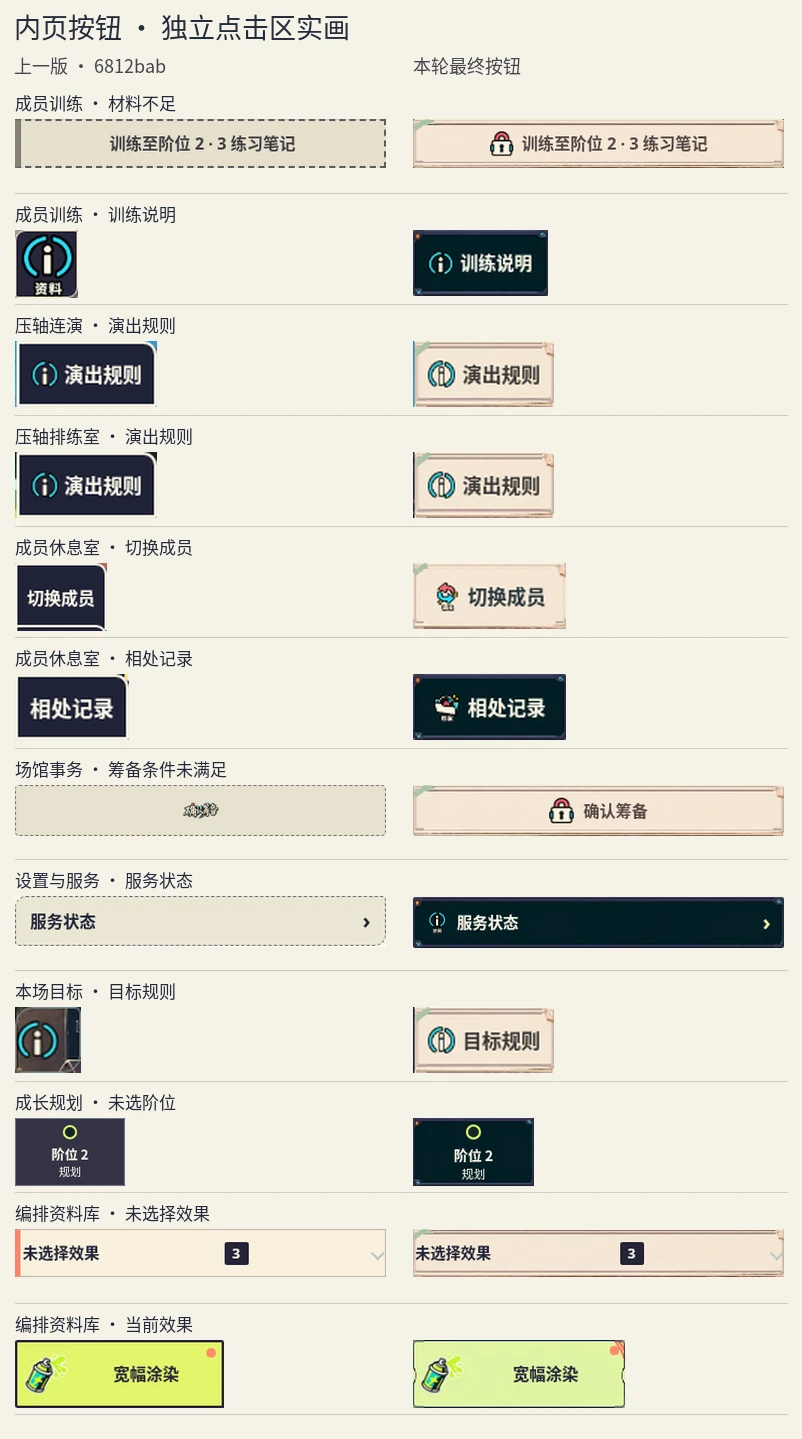
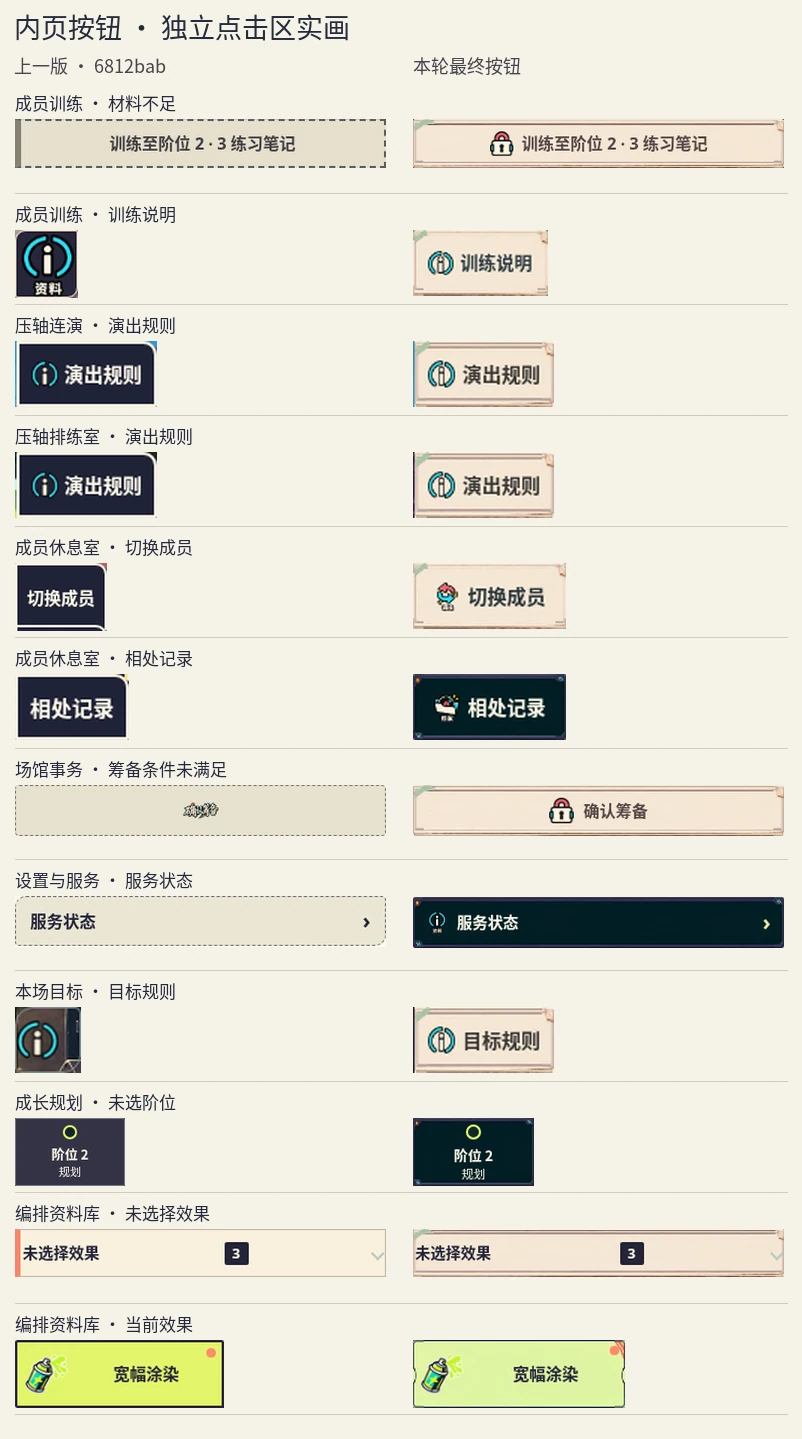
Separate the three training tools into member, equipment and instruction controls

Changed region(s): [[0.4988, 0.1529, 0.6858, 0.214]]

diff --git a/game/src/styles/printroomInnerPages.css b/game/src/styles/printroomInnerPages.css
@@ -802,8 +802,14 @@
     width:90px;min-width:90px;height:44px;min-height:44px;padding:4px 6px;
     border:0;border-radius:2px;background:#27363f;border-image:var(--set-monitor) 42 fill / 7px stretch;
     box-shadow:0 2px 4px #1a29363d;color:#fff9e9;
-    &[data-action=actor-switch] {--tool-icon:url('/art/hierarchy-ui-20261101/icons-switch.webp')}
+    &[data-action=actor-switch] {
+      --tool-icon:url('/art/hierarchy-ui-20261101/icons-switch.webp');
+      background:#353247;border-image-source:var(--set-strip);
+    }
     &[data-action=workshop-sheet-equipment] {--tool-icon:url('/art/hierarchy-ui-20261101/icons-equipment.webp')}
+    &[data-action=workshop-sheet-info] {
+      background:#f8edd4;color:#303c43;border-image-source:var(--set-note);
+    }
     & > .ui-glyph {display:none}
     &::before {content:'';position:static;display:block;flex:0 0 17px;width:17px;height:17px;background:var(--tool-icon) center/contain no-repeat}
     &::after {content:attr(aria-label);position:static;display:block;width:auto;height:auto;background:none;color:inherit;font:750 12px/17px system-ui,sans-serif}

diff --git a/docs/visual-qa/2026-11-25-setdesign/inner/README.md b/docs/visual-qa/2026-11-25-setdesign/inner/README.md
@@ -30,3 +30,5 @@
 从页面背景里把按钮裁出来后，训练、两种演出规则、休息室换人和记录、场馆筹备、服务状态与上一版仍很接近。因此又改了一轮。训练和筹备共用“可执行／锁定”按钮，材料或排班不足时有锁图和文字，操作可用时换成相应的训练或筹备图形。规则页签改成纸面文字，训练说明等三个工具显示各自图形和原生文字。休息室两枚工具都高 44 像素，之间有 8 像素间隔。服务状态用独立的深色查询按钮。[12 个按钮改前改后局部图](../inner-controls.webp)
 
 320×568 和 390×844 逐个复验这 12 项。每项中心都能命中，宽高均达到约 44 像素；可用项均能显示键盘焦点。另从五章通关测试档真实执行了升阶、分配成员、保存排班和确认筹备。升阶后训练目标更新，筹备结束后按钮恢复为不可用。
+
+训练页右侧的三个工具分别采用深色成员签、青色设备铭牌和暖白说明纸签。320 和 390 宽均为 90×44 像素，逐个点开后核对弹窗名称，关闭能返回训练页。[三枚训练工具独立对照](training-tools.webp)
